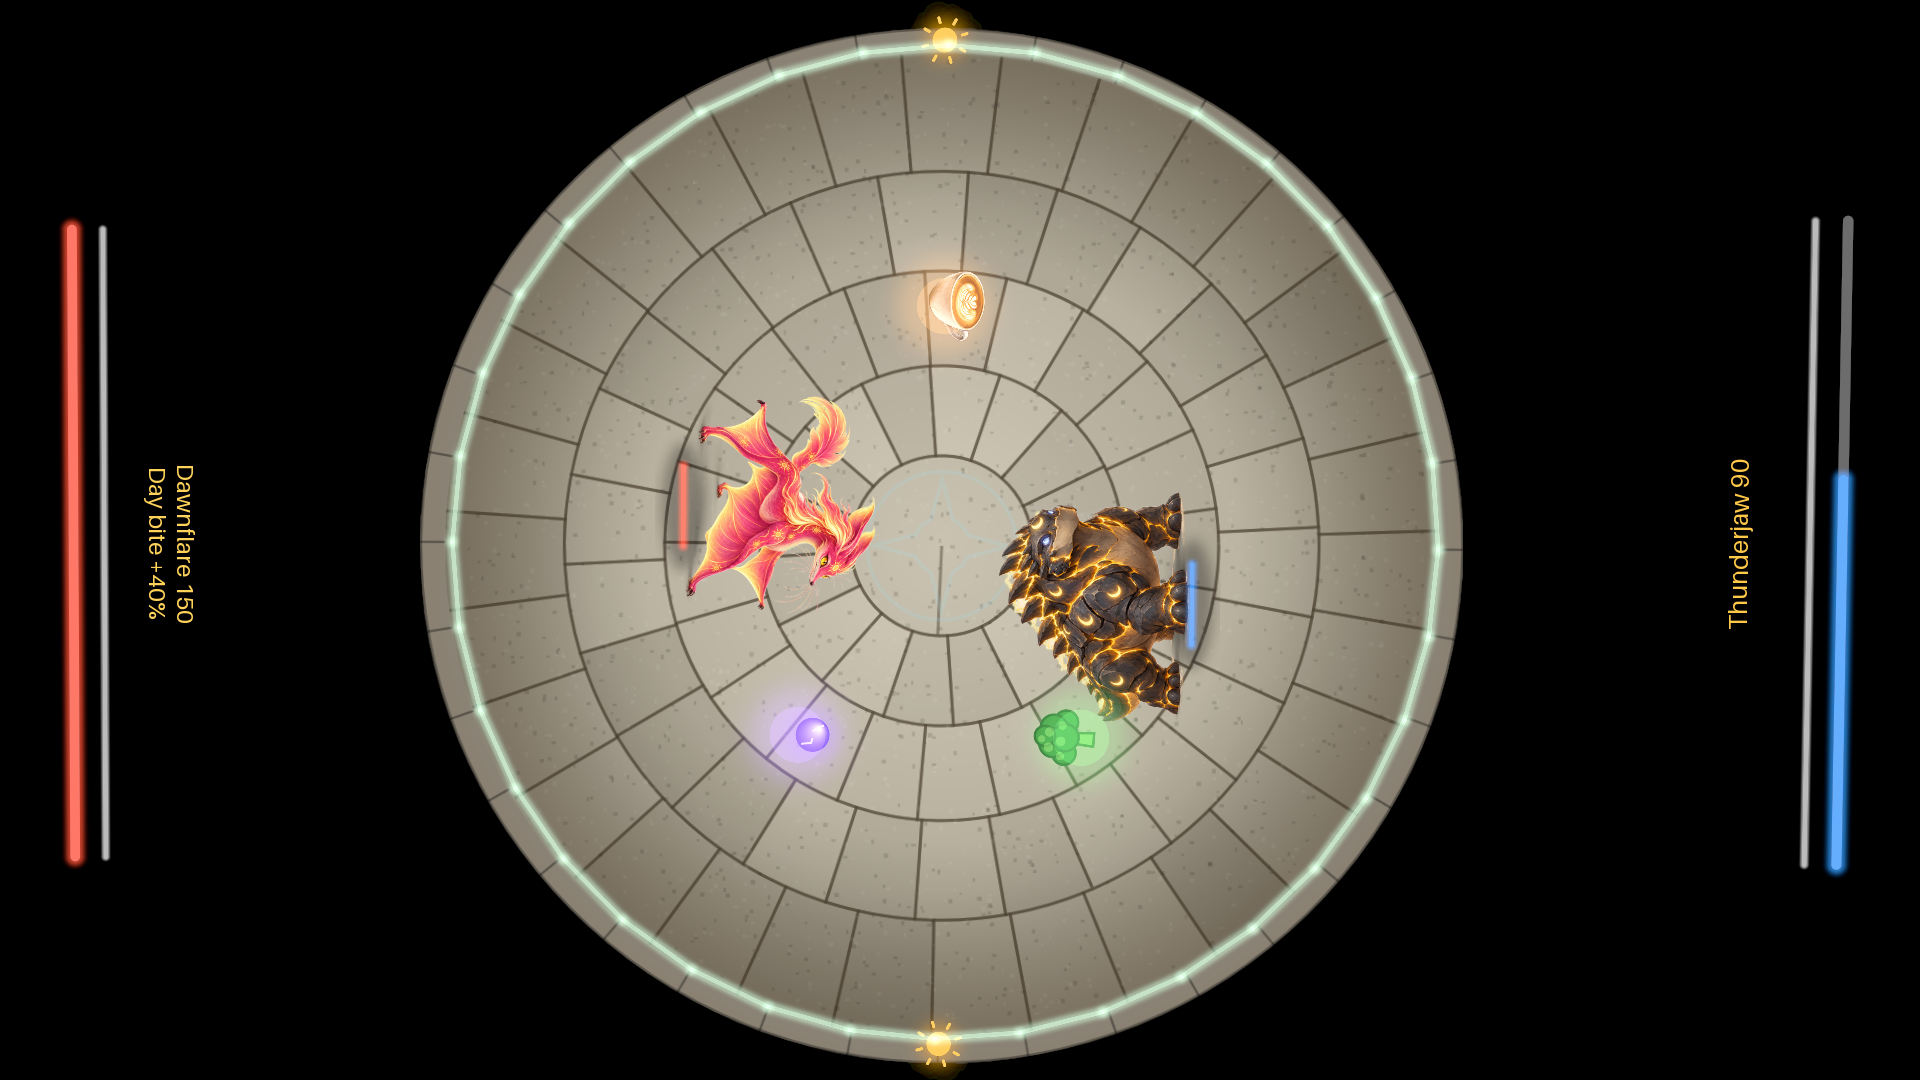
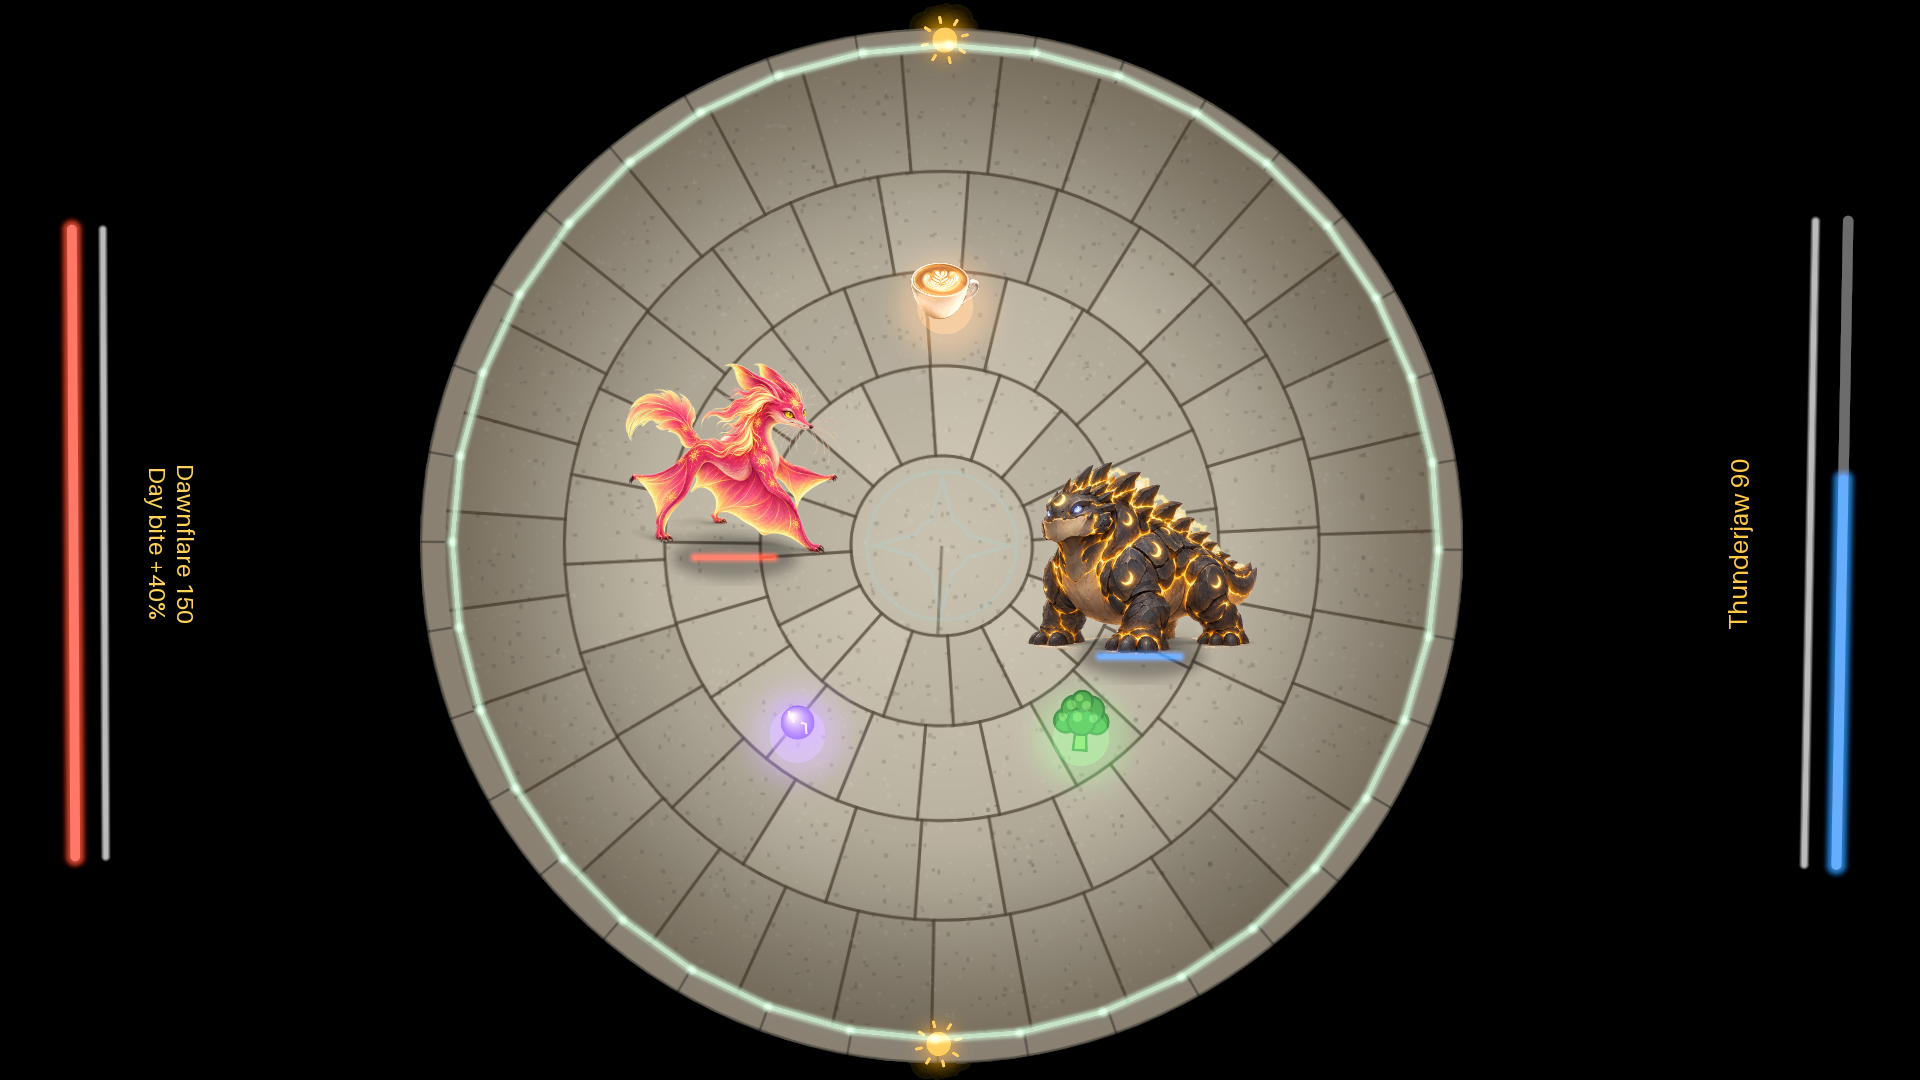
Pictures upright for the players at the bottom long edge
Adrian (2026-10-30): the players stand along the bottom long edge, so the
creatures, power ups, sun and moon stand upright for them and face left or
right along it; the pick previews face the middle. picturesFromEnds 1 keeps
the old per-player orientation.

Claude-Session: https://claude.ai/code/session_012UY2mVqTxaFippEJJdhSyT

diff --git a/README.md b/README.md
@@ -101,8 +101,9 @@ dream zap         # only to send it to a real table
 
 ## Known limits
 
-- Seen from above, a painting stands upright for its own player, so the other player
-  sees it upside down.
+- The pictures stand upright for people at the table's bottom long edge, where players
+  stand (`picturesFromEnds 1` in the settings turns each upright for its player at the
+  short ends instead). The switches, bars and labels are still at the short ends.
 - The browser game's floating words (BOOST, BITTER!), particles, banners and screen shake
   are not on the table yet; its light effects are RJ's.
 - Two players only, at the short ends. No computer opponent.
